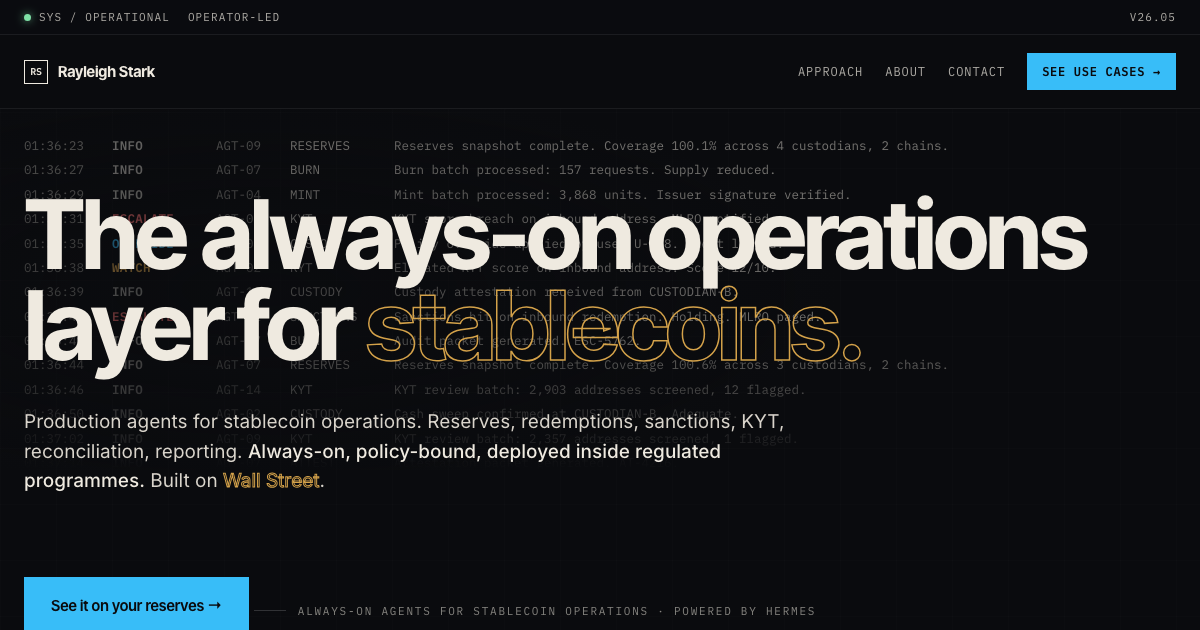
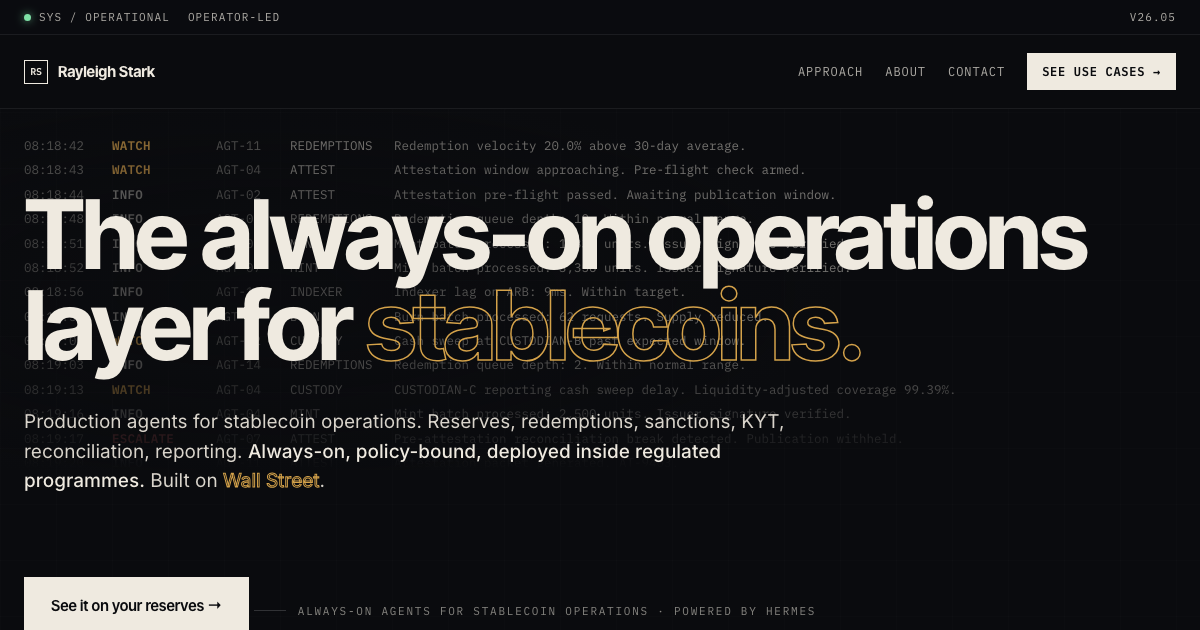
Drop the blue accent: white outlines for display text, white buttons
Repoints --accent token from #38bdf8 to var(--paper) (#EFEAE0) so
every blue thing — buttons, borders, decorative bars, log severities,
hover tints — becomes paper. For the inline display accents (.accent
and .acc spans inside h1/h2/h3 headlines), swap solid color for the
outline treatment: transparent fill with a 1.5px paper stroke,
matching the existing .outline-gold style on "stablecoins." and
"Wall Street."

Also swaps the few direct rgba(56,189,248,*) tints to the paper
equivalent, and re-captures og-image.png so the social preview shows
the new white CTA instead of the old blue one.

diff --git a/index.html b/index.html
@@ -70,7 +70,7 @@
     --paper:#EFEAE0;
     --muted:rgba(239,234,224,.72);
     --muted-2:rgba(239,234,224,.54);
-    --accent:#38bdf8;
+    --accent:#EFEAE0;
     --green:#7FE0A6;
     --amber:#F7B955;
     --gold:#D4A24A;
@@ -147,7 +147,7 @@
     font-size:clamp(48px,8vw,118px);line-height:.95;letter-spacing:-.038em;
     margin:0 0 36px;color:var(--paper);max-width:22ch;
   }
-  h1.hero-h .accent{color:var(--accent)}
+  h1.hero-h .accent{color:transparent;-webkit-text-stroke:1.5px var(--paper);text-stroke:1.5px var(--paper);paint-order:stroke fill}
   .hero-sub{
     font-family:'Inter',sans-serif;font-size:19px;line-height:1.55;
     color:rgba(239,234,224,.9);
@@ -240,7 +240,7 @@
   .section-num{font-family:'IBM Plex Mono',monospace;font-size:11px;letter-spacing:.16em;text-transform:uppercase;color:var(--accent);border:1px solid var(--accent);padding:8px 12px;align-self:start}
   .section-eyebrow{font-family:'IBM Plex Mono',monospace;font-size:11px;letter-spacing:.14em;text-transform:uppercase;color:var(--muted);margin-bottom:14px}
   .section-heading{font-family:'Inter Tight',sans-serif;font-weight:700;font-size:clamp(34px,4.6vw,68px);line-height:1;letter-spacing:-.028em;margin:0;color:var(--paper);max-width:22ch}
-  .section-heading .accent{color:var(--accent)}
+  .section-heading .accent{color:transparent;-webkit-text-stroke:1.5px var(--paper);text-stroke:1.5px var(--paper);paint-order:stroke fill}
   .section-side{font-family:'IBM Plex Mono',monospace;font-size:11px;letter-spacing:.06em;color:var(--muted);text-align:right;text-transform:uppercase;line-height:1.7}
 
   /* OFFERS */
@@ -280,7 +280,7 @@
   .case01{
     position:relative;
     border:1px solid var(--line-strong);
-    background:linear-gradient(180deg,rgba(56,189,248,.025),rgba(255,255,255,0) 40%);
+    background:linear-gradient(180deg,rgba(239,234,224,.025),rgba(255,255,255,0) 40%);
     padding:56px 56px 0;margin-bottom:64px;
   }
   .case01-meta{
@@ -311,7 +311,7 @@
     line-height:1.08;letter-spacing:-.025em;
     color:var(--paper);margin:0 0 28px;
   }
-  .case01-moment h3 .acc{color:var(--accent)}
+  .case01-moment h3 .acc{color:transparent;-webkit-text-stroke:1.5px var(--paper);text-stroke:1.5px var(--paper);paint-order:stroke fill}
   .case01-moment .note{
     font-family:'Inter',sans-serif;font-size:17px;line-height:1.6;color:var(--muted);
     margin:0;max-width:54ch;
@@ -373,7 +373,7 @@
   .tl-event:last-child .tl-tick::before{bottom:50%}
   .tl-event .tl-tick::after{
     content:'';width:10px;height:10px;border-radius:50%;
-    background:var(--accent);box-shadow:0 0 0 4px var(--ink),0 0 12px rgba(56,189,248,.4);
+    background:var(--accent);box-shadow:0 0 0 4px var(--ink),0 0 12px rgba(239,234,224,.4);
     margin-top:6px;position:relative;z-index:1;
   }
   .tl-event .tl-label{
@@ -420,7 +420,7 @@
   .case01-cf{
     border-top:1px solid var(--accent);
     margin:48px -56px 0;padding:56px 56px 64px;
-    background:linear-gradient(180deg,rgba(56,189,248,.03),rgba(255,255,255,0));
+    background:linear-gradient(180deg,rgba(239,234,224,.03),rgba(255,255,255,0));
     position:relative;
   }
   .case01-cf-label{
@@ -524,7 +524,7 @@
   .control-strip{
     margin-top:8px;border:1px solid var(--line-strong);
     padding:18px 22px;display:grid;grid-template-columns:auto 1fr;gap:22px;align-items:center;
-    background:linear-gradient(180deg,rgba(56,189,248,.04),rgba(255,255,255,0));
+    background:linear-gradient(180deg,rgba(239,234,224,.04),rgba(255,255,255,0));
   }
   .control-strip .label{
     font-family:'IBM Plex Mono',monospace;font-size:10.5px;letter-spacing:.18em;
@@ -541,7 +541,7 @@
   .uc-lead{
     margin-top:20px;padding:22px 24px;
     border:1px solid var(--line-strong);
-    background:linear-gradient(180deg,rgba(56,189,248,.04),rgba(255,255,255,0));
+    background:linear-gradient(180deg,rgba(239,234,224,.04),rgba(255,255,255,0));
     display:grid;grid-template-columns:auto 1fr 1fr 1fr;gap:32px;align-items:start;
   }
   .uc-lead-tag{
@@ -568,7 +568,7 @@
     padding:24px 22px 26px;display:flex;flex-direction:column;gap:0;position:relative;
     transition:border-color .2s,background .2s;
   }
-  .uc-card:hover{border-color:var(--accent);background:rgba(56,189,248,.04)}
+  .uc-card:hover{border-color:var(--accent);background:rgba(239,234,224,.04)}
   .uc-card::before{content:'';position:absolute;left:22px;top:0;width:32px;height:2px;background:var(--accent)}
   .uc-meta{
     display:flex;justify-content:space-between;align-items:center;

diff --git a/about.html b/about.html
@@ -39,7 +39,7 @@
     --paper:#EFEAE0;
     --muted:rgba(239,234,224,.72);
     --muted-2:rgba(239,234,224,.54);
-    --accent:#38bdf8;
+    --accent:#EFEAE0;
     --green:#7FE0A6;
     --gold:#D4A24A;
   }
@@ -137,7 +137,7 @@
   .eyebrow{font-family:'IBM Plex Mono',monospace;font-size:11px;letter-spacing:.16em;text-transform:uppercase;color:var(--accent);margin-bottom:22px;display:inline-flex;align-items:center;gap:12px}
   .eyebrow::after{content:'';width:36px;height:1px;background:var(--accent)}
   h1.h{font-family:'Inter Tight',sans-serif;font-weight:700;font-size:clamp(40px,5.6vw,80px);line-height:.98;letter-spacing:-.03em;margin:0 0 8px;color:var(--paper);max-width:18ch}
-  h1.h .accent{color:var(--accent)}
+  h1.h .accent{color:transparent;-webkit-text-stroke:1.5px var(--paper);text-stroke:1.5px var(--paper);paint-order:stroke fill}
   .role{font-family:'IBM Plex Mono',monospace;font-size:13px;letter-spacing:.06em;text-transform:uppercase;color:var(--muted);margin:0 0 32px;padding-bottom:24px;border-bottom:1px solid var(--line)}
   .role b{color:var(--paper);font-weight:500}
 
@@ -159,7 +159,7 @@
     font-family:'Inter Tight',sans-serif;font-weight:600;
     font-size:28px;letter-spacing:-.02em;color:var(--paper);margin:0;
   }
-  .built-head h2 .accent{color:var(--accent)}
+  .built-head h2 .accent{color:transparent;-webkit-text-stroke:1.5px var(--paper);text-stroke:1.5px var(--paper);paint-order:stroke fill}
   .built-head .meta{font-family:'IBM Plex Mono',monospace;font-size:11px;letter-spacing:.1em;text-transform:uppercase;color:var(--muted)}
   .built-list{
     display:grid;grid-template-columns:repeat(4,1fr);gap:0;

diff --git a/approach.html b/approach.html
@@ -39,7 +39,7 @@
     --paper:#EFEAE0;
     --muted:rgba(239,234,224,.72);
     --muted-2:rgba(239,234,224,.54);
-    --accent:#38bdf8;
+    --accent:#EFEAE0;
     --green:#7FE0A6;
     --gold:#D4A24A;
   }
@@ -89,7 +89,7 @@
   .eyebrow{font-family:'IBM Plex Mono',monospace;font-size:11px;letter-spacing:.16em;text-transform:uppercase;color:var(--accent);margin-bottom:22px;display:inline-flex;align-items:center;gap:12px}
   .eyebrow::after{content:'';width:36px;height:1px;background:var(--accent)}
   h1.h{font-family:'Inter Tight',sans-serif;font-weight:700;font-size:clamp(40px,5.6vw,84px);line-height:.98;letter-spacing:-.03em;margin:0 0 32px;color:var(--paper);max-width:22ch}
-  h1.h .accent{color:var(--accent)}
+  h1.h .accent{color:transparent;-webkit-text-stroke:1.5px var(--paper);text-stroke:1.5px var(--paper);paint-order:stroke fill}
   .lede{font-size:19px;line-height:1.55;color:var(--muted);max-width:62ch;margin:0}
   .lede b{color:var(--paper);font-weight:500}
 
@@ -115,7 +115,7 @@
     font-size:32px;letter-spacing:-.02em;color:var(--paper);
     margin:0 0 18px;line-height:1.1;
   }
-  .stage h2 .accent{color:var(--accent)}
+  .stage h2 .accent{color:transparent;-webkit-text-stroke:1.5px var(--paper);text-stroke:1.5px var(--paper);paint-order:stroke fill}
   .stage p{font-size:16.5px;line-height:1.6;color:var(--muted);margin:0 0 14px;max-width:62ch}
   .stage p b{color:var(--paper);font-weight:500}
 

diff --git a/contact.html b/contact.html
@@ -39,7 +39,7 @@
     --paper:#EFEAE0;
     --muted:rgba(239,234,224,.72);
     --muted-2:rgba(239,234,224,.54);
-    --accent:#38bdf8;
+    --accent:#EFEAE0;
     --green:#7FE0A6;
     --gold:#D4A24A;
   }

diff --git a/terms.html b/terms.html
@@ -39,7 +39,7 @@
     --paper:#EFEAE0;
     --muted:rgba(239,234,224,.72);
     --muted-2:rgba(239,234,224,.54);
-    --accent:#38bdf8;
+    --accent:#EFEAE0;
     --green:#7FE0A6;
     --gold:#D4A24A;
   }
